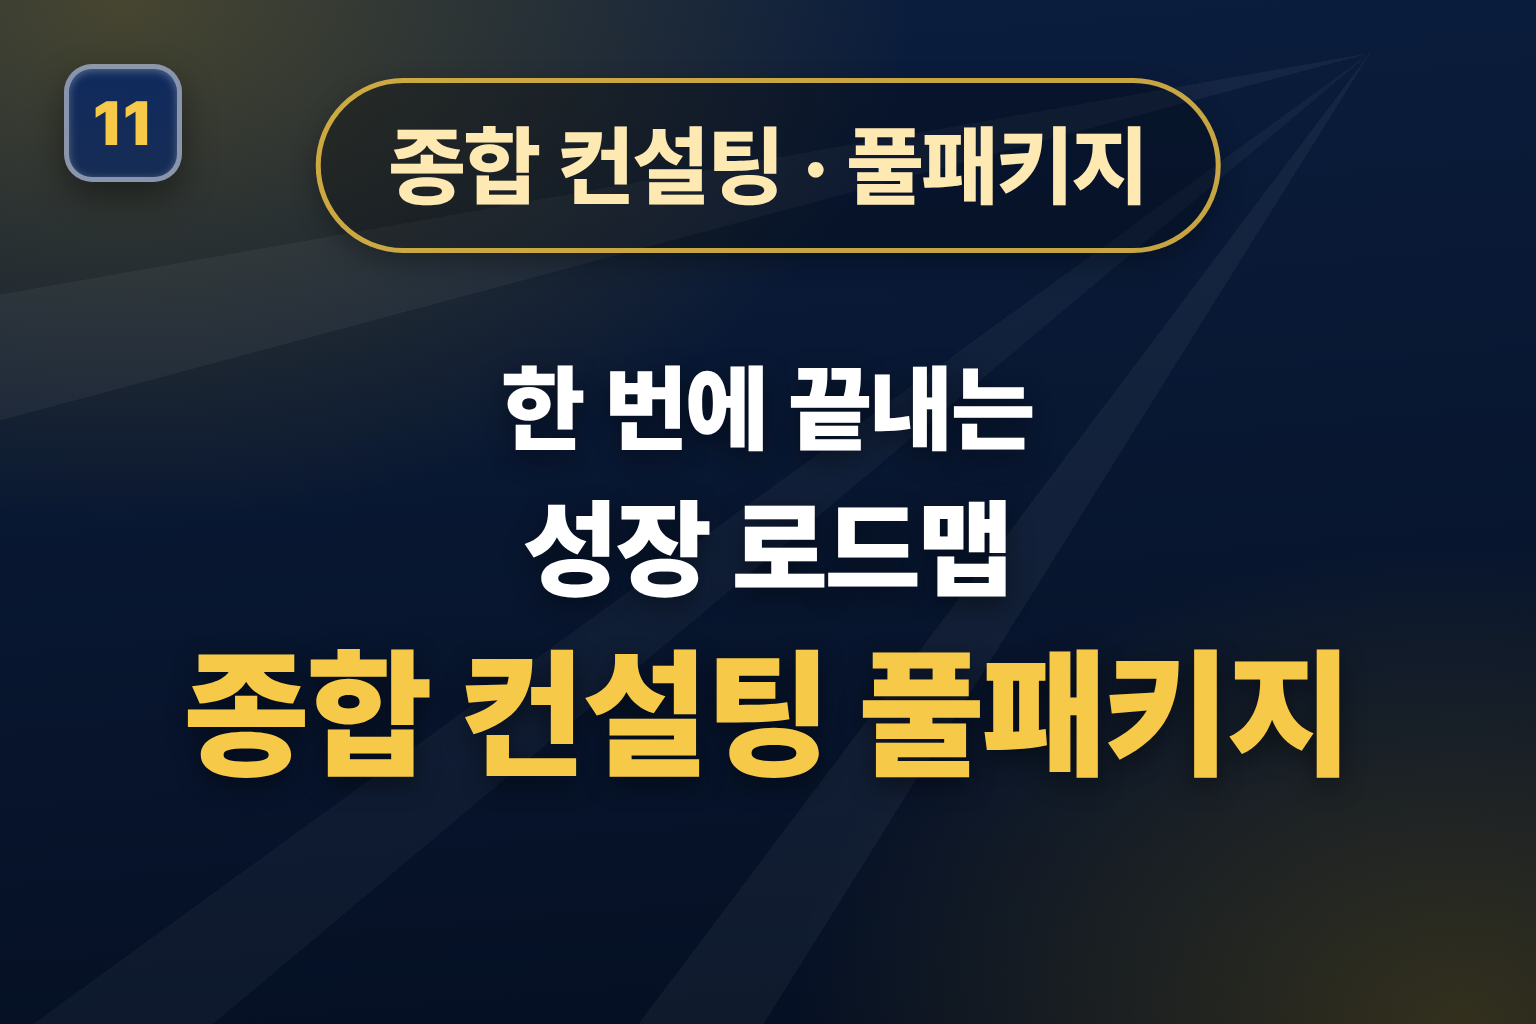
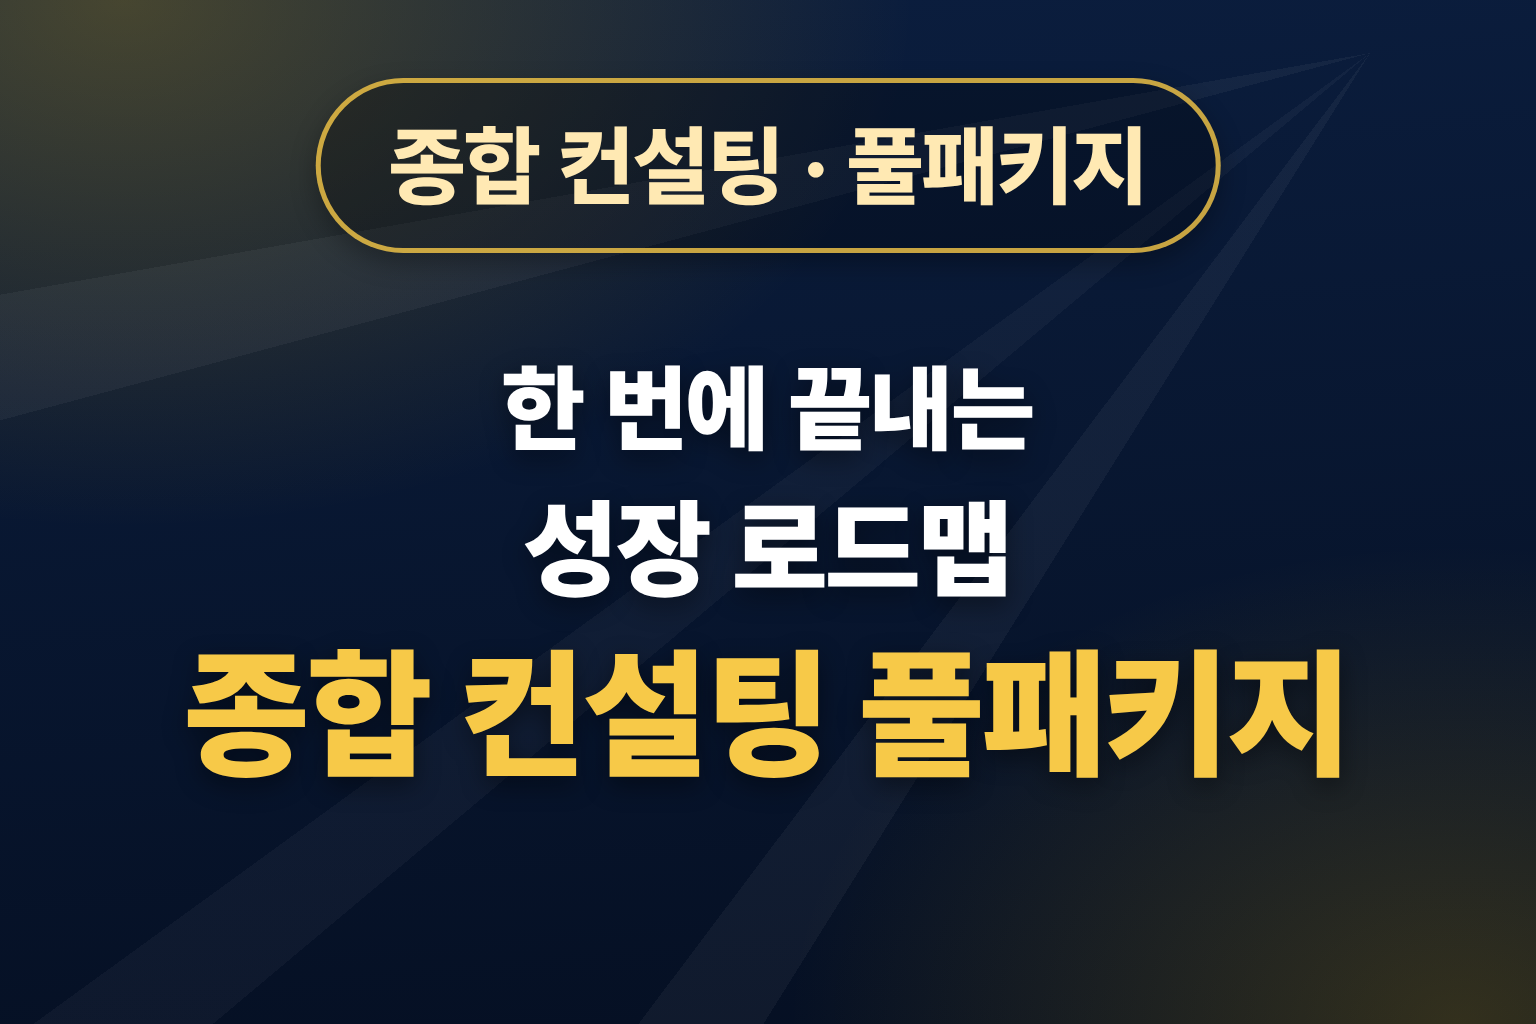
모바일 UI 정리 — 상품 번호 제거·TOP 배지·2열 그리드·히어로 압축·수상 정렬
- 상품 배너 11종에서 1~11 번호 배지 제거(재생성)
- TOP5 섹션 카드 좌상단에 TOP 1~5 순위 배지 오버레이(화면 렌더)
- 전체 상품·TOP5·찜/장바구니 모두 모바일 2열(2x2) 그리드 + 컴팩트 카드
  (좁은 폭에서도 상품명·가격·혜택이 잘리지 않게 기본 크기 축소, sm 이상 확대)
- 히어로 CTA 문구 밸런스 조정: '우리 회사에 필요한 서비스 직접 체크하기' 2줄 균형(text-balance)
- 히어로·신뢰 블록 여백/폰트 압축 → 대표 상품 TOP5가 더 빨리 보이도록
- 수상 표기 전폭 단일 열로 재배치(연도 칩 + 제목·부문 인라인) — 우측 쏠림·세로 길이 해소

Claude-Session: https://claude.ai/code/session_0127QvWRVvHFDHQbBmPVBCzc

Changed region(s): [[0.0312, 0.0625, 0.125, 0.1875]]

diff --git a/src/components/ProductCard.tsx b/src/components/ProductCard.tsx
@@ -1,5 +1,6 @@
 // 서비스몰형 상품 카드 — 카드 전체가 상세페이지 링크, 썸네일 우하단에 찜·장바구니 토글.
 // 결제/상담은 상세페이지 상단 CTA 에서 진행. (/business-services · /saved 공용)
+// 모바일 2열(2x2) 그리드 우선 — 좁은 폭에서도 글자가 잘리지 않게 기본 크기를 작게, sm 이상에서 확대.
 import { Link } from 'react-router-dom'
 import BusinessServiceVisual from './BusinessServiceVisual'
 import { categoryToneClass, packageBanner, type BusinessPackage } from '../data/businessPackages'
@@ -16,7 +17,7 @@ export function formatKoreanMoney(text: string): string {
     .replace(/(?<![\d,])(\d+)\s*천\s*원/g, (_m, cheon: string) => `${(parseInt(cheon, 10) * 1000).toLocaleString('ko-KR')}원`)
 }
 
-export default function ProductCard({ pkg }: { pkg: BusinessPackage }) {
+export default function ProductCard({ pkg, rank }: { pkg: BusinessPackage; rank?: number }) {
   const b = packageBanner[pkg.id]
   const flagship = pkg.flagship
   const consult = pkg.priceType === 'consult'
@@ -38,7 +39,7 @@ export default function ProductCard({ pkg }: { pkg: BusinessPackage }) {
   }
 
   const miniBtn =
-    'grid h-9 w-9 place-items-center rounded-full shadow-md backdrop-blur transition-all duration-150 active:scale-95 focus-visible:outline focus-visible:outline-2 focus-visible:outline-offset-2 focus-visible:outline-white'
+    'grid h-8 w-8 place-items-center rounded-full shadow-md backdrop-blur transition-all duration-150 active:scale-95 focus-visible:outline focus-visible:outline-2 focus-visible:outline-offset-2 focus-visible:outline-white sm:h-9 sm:w-9'
 
   return (
     <Link
@@ -54,8 +55,16 @@ export default function ProductCard({ pkg }: { pkg: BusinessPackage }) {
       <div className="relative aspect-[16/10] overflow-hidden bg-slate-100">
         <BusinessServiceVisual type={pkg.visualType} title={b.title} accent={b.accent} tag={pkg.category} imageSrc={pkg.imageSrc} alt={pkg.name} fit="cover" minimal />
 
-        {/* 찜·장바구니 — 썸네일 우하단 미니 버튼 */}
-        <div className="absolute bottom-2.5 right-2.5 flex flex-col items-center gap-1.5">
+        {/* TOP 순위 배지 — 썸네일 좌상단(대표 상품 TOP N 에서만) */}
+        {rank && (
+          <span className="absolute left-2 top-2 inline-flex items-center gap-0.5 rounded-lg bg-gradient-to-b from-amber-400 to-amber-500 px-2 py-1 font-black leading-none tracking-tight text-slate-900 shadow-md ring-1 ring-amber-300/50">
+            <span className="text-[0.6rem] font-black sm:text-[0.68rem]">TOP</span>
+            <span className="text-[0.95rem] sm:text-[1.1rem]">{rank}</span>
+          </span>
+        )}
+
+        {/* 찜·장바구니 — 썸네일 우하단 미니 버튼(세로 배치, 좋아요 위) */}
+        <div className="absolute bottom-2 right-2 flex flex-col items-center gap-1.5 sm:bottom-2.5 sm:right-2.5">
           <button
             type="button"
             onClick={onLike}
@@ -64,7 +73,7 @@ export default function ProductCard({ pkg }: { pkg: BusinessPackage }) {
             title={liked ? '좋아요 해제' : '좋아요'}
             className={`${miniBtn} ${liked ? 'bg-rose-500 text-white' : 'bg-white/90 text-slate-500 hover:bg-white hover:text-rose-500'}`}
           >
-            <svg viewBox="0 0 24 24" className="h-[18px] w-[18px]" fill={liked ? 'currentColor' : 'none'} stroke="currentColor" strokeWidth="2" strokeLinecap="round" strokeLinejoin="round" aria-hidden>
+            <svg viewBox="0 0 24 24" className="h-[16px] w-[16px] sm:h-[18px] sm:w-[18px]" fill={liked ? 'currentColor' : 'none'} stroke="currentColor" strokeWidth="2" strokeLinecap="round" strokeLinejoin="round" aria-hidden>
               <path d="M19 14c1.5-1.5 3-3.2 3-5.5A4.5 4.5 0 0 0 17.5 4c-1.7 0-3 .8-4 2.1a5.5 5.5 0 0 0-1-1.1A4.6 4.6 0 0 0 9.5 4 4.5 4.5 0 0 0 5 8.5c0 2.3 1.5 4 3 5.5l4 4 3.5-3.5z" transform="translate(0 .5)" />
             </svg>
           </button>
@@ -77,11 +86,11 @@ export default function ProductCard({ pkg }: { pkg: BusinessPackage }) {
             className={`${miniBtn} ${inCart ? 'bg-blue-600 text-white' : 'bg-white/90 text-slate-500 hover:bg-white hover:text-blue-600'}`}
           >
             {inCart ? (
-              <svg viewBox="0 0 24 24" className="h-[18px] w-[18px]" fill="none" stroke="currentColor" strokeWidth="2.4" strokeLinecap="round" strokeLinejoin="round" aria-hidden>
+              <svg viewBox="0 0 24 24" className="h-[16px] w-[16px] sm:h-[18px] sm:w-[18px]" fill="none" stroke="currentColor" strokeWidth="2.4" strokeLinecap="round" strokeLinejoin="round" aria-hidden>
                 <path d="M4.5 12.5l5 5 10-11" />
               </svg>
             ) : (
-              <svg viewBox="0 0 24 24" className="h-[18px] w-[18px]" fill="none" stroke="currentColor" strokeWidth="2" strokeLinecap="round" strokeLinejoin="round" aria-hidden>
+              <svg viewBox="0 0 24 24" className="h-[16px] w-[16px] sm:h-[18px] sm:w-[18px]" fill="none" stroke="currentColor" strokeWidth="2" strokeLinecap="round" strokeLinejoin="round" aria-hidden>
                 <circle cx="9" cy="20" r="1.4" />
                 <circle cx="17.5" cy="20" r="1.4" />
                 <path d="M2.5 3.5h2.5l2.6 12h10.7l2.2-8.5H6" />
@@ -92,44 +101,44 @@ export default function ProductCard({ pkg }: { pkg: BusinessPackage }) {
         </div>
       </div>
 
-      <div className="flex flex-1 flex-col p-4 sm:p-5">
+      <div className="flex flex-1 flex-col p-3 sm:p-5">
         {/* 카테고리 ↔ 대표상품/배지 */}
-        <div className="flex items-center justify-between gap-2">
-          <span className={`rounded-full px-2.5 py-1 text-[0.82rem] font-bold ${categoryToneClass[pkg.category] ?? 'bg-slate-100 text-slate-600'}`}>{pkg.category}</span>
+        <div className="flex items-center justify-between gap-1.5">
+          <span className={`rounded-full px-2 py-0.5 text-[0.72rem] font-bold sm:px-2.5 sm:py-1 sm:text-[0.82rem] ${categoryToneClass[pkg.category] ?? 'bg-slate-100 text-slate-600'}`}>{pkg.category}</span>
           {flagship ? (
-            <span className="shrink-0 rounded-full bg-amber-400 px-2.5 py-1 text-[0.82rem] font-black text-slate-900">★ 대표 상품</span>
+            <span className="shrink-0 rounded-full bg-amber-400 px-2 py-0.5 text-[0.72rem] font-black text-slate-900 sm:px-2.5 sm:py-1 sm:text-[0.82rem]">★ 대표</span>
           ) : (
-            pkg.badge && <span className="shrink-0 rounded-full bg-slate-100 px-2.5 py-1 text-[0.82rem] font-semibold text-slate-500">{pkg.badge}</span>
+            pkg.badge && <span className="hidden shrink-0 rounded-full bg-slate-100 px-2.5 py-1 text-[0.82rem] font-semibold text-slate-500 sm:inline">{pkg.badge}</span>
           )}
         </div>
 
         {/* 상품명 + 한줄 소개 */}
-        <h3 className="mt-3 line-clamp-1 text-[1.35rem] font-extrabold leading-snug tracking-tight text-slate-900">{pkg.name}</h3>
-        <p className="mt-1.5 line-clamp-2 text-[0.98rem] leading-relaxed text-slate-500">{pkg.short}</p>
+        <h3 className="mt-2 line-clamp-2 text-[1.02rem] font-extrabold leading-snug tracking-tight text-slate-900 sm:mt-3 sm:line-clamp-1 sm:text-[1.35rem]">{pkg.name}</h3>
+        <p className="mt-1 line-clamp-2 text-[0.82rem] leading-relaxed text-slate-500 sm:mt-1.5 sm:text-[0.98rem]">{pkg.short}</p>
 
         {/* 가격 존 — 결제/상담 구분 배지 + 가격 강조 */}
-        <div className="mt-3.5">
+        <div className="mt-2.5 sm:mt-3.5">
           {consult ? (
-            <span className="inline-flex items-center gap-1 rounded-full bg-amber-50 px-2.5 py-1 text-[0.82rem] font-bold text-amber-700 ring-1 ring-inset ring-amber-500/20">
+            <span className="inline-flex items-center gap-1 rounded-full bg-amber-50 px-2 py-0.5 text-[0.72rem] font-bold text-amber-700 ring-1 ring-inset ring-amber-500/20 sm:px-2.5 sm:py-1 sm:text-[0.82rem]">
               <span aria-hidden>💬</span> 상담 후 견적
             </span>
           ) : (
-            <span className="inline-flex items-center gap-1 rounded-full bg-emerald-50 px-2.5 py-1 text-[0.82rem] font-bold text-emerald-700 ring-1 ring-inset ring-emerald-600/15">
-              <span aria-hidden>⚡</span> 바로 결제 가능
+            <span className="inline-flex items-center gap-1 rounded-full bg-emerald-50 px-2 py-0.5 text-[0.72rem] font-bold text-emerald-700 ring-1 ring-inset ring-emerald-600/15 sm:px-2.5 sm:py-1 sm:text-[0.82rem]">
+              <span aria-hidden>⚡</span> 바로 결제
             </span>
           )}
-          <div className="mt-2 flex items-baseline gap-1.5">
-            <span className={`font-black tracking-tight ${consult ? 'text-[1.6rem] text-slate-700' : flagship ? 'text-[1.85rem] text-amber-600' : 'text-[1.85rem] text-slate-900'}`}>{priceText}</span>
+          <div className="mt-1.5 flex items-baseline gap-1.5 sm:mt-2">
+            <span className={`font-black tracking-tight ${consult ? 'text-[1.2rem] text-slate-700 sm:text-[1.6rem]' : flagship ? 'text-[1.35rem] text-amber-600 sm:text-[1.85rem]' : 'text-[1.35rem] text-slate-900 sm:text-[1.85rem]'}`}>{priceText}</span>
           </div>
-          {pkg.priceHighlight && <p className="mt-1.5 line-clamp-1 text-[0.9rem] font-bold text-rose-600">{formatKoreanMoney(pkg.priceHighlight)}</p>}
+          {pkg.priceHighlight && <p className="mt-1 line-clamp-1 text-[0.8rem] font-bold text-rose-600 sm:mt-1.5 sm:text-[0.9rem]">{formatKoreanMoney(pkg.priceHighlight)}</p>}
         </div>
 
-        {/* 대표 혜택 3가지 — SaaS 체크 리스트(스캔형) */}
-        <ul className="mt-4 space-y-2.5 border-t border-slate-100 pt-4">
-          {pkg.highlights.slice(0, 3).map((h) => (
-            <li key={h} className="flex items-center gap-2.5 text-[0.98rem] font-semibold text-slate-700">
-              <span className={`grid h-5 w-5 shrink-0 place-items-center rounded-full ${flagship ? 'bg-amber-100 text-amber-600' : 'bg-blue-50 text-blue-600'}`} aria-hidden>
-                <svg viewBox="0 0 12 12" className="h-3 w-3" fill="none" stroke="currentColor" strokeWidth="2.5" strokeLinecap="round" strokeLinejoin="round">
+        {/* 대표 혜택 — 스캔형 체크 리스트. 모바일 2개, sm 이상 3개 */}
+        <ul className="mt-3 space-y-2 border-t border-slate-100 pt-3 sm:mt-4 sm:space-y-2.5 sm:pt-4">
+          {pkg.highlights.slice(0, 3).map((h, i) => (
+            <li key={h} className={`flex items-center gap-2 text-[0.82rem] font-semibold text-slate-700 sm:gap-2.5 sm:text-[0.98rem] ${i === 2 ? 'hidden sm:flex' : ''}`}>
+              <span className={`grid h-4 w-4 shrink-0 place-items-center rounded-full sm:h-5 sm:w-5 ${flagship ? 'bg-amber-100 text-amber-600' : 'bg-blue-50 text-blue-600'}`} aria-hidden>
+                <svg viewBox="0 0 12 12" className="h-2.5 w-2.5 sm:h-3 sm:w-3" fill="none" stroke="currentColor" strokeWidth="2.5" strokeLinecap="round" strokeLinejoin="round">
                   <path d="M2.5 6.4l2.4 2.4L9 3.2" />
                 </svg>
               </span>

diff --git a/src/pages/BusinessServicesPage.tsx b/src/pages/BusinessServicesPage.tsx
@@ -177,23 +177,24 @@ export default function BusinessServicesPage() {
       <section className="relative overflow-hidden bg-slate-900">
         <div aria-hidden className="pointer-events-none absolute -left-20 -top-24 h-72 w-72 rounded-full bg-blue-600/20 blur-3xl" />
         <div aria-hidden className="pointer-events-none absolute -bottom-24 right-0 h-72 w-72 rounded-full bg-amber-500/10 blur-3xl" />
-        <div className="relative mx-auto max-w-6xl px-5 py-11 sm:px-6 sm:py-14">
+        <div className="relative mx-auto max-w-6xl px-5 py-8 sm:px-6 sm:py-14">
           <span className="inline-flex items-center gap-2 rounded-full border border-white/15 bg-white/5 px-3.5 py-1.5 text-[0.8rem] font-semibold text-slate-200 backdrop-blur">
             <span className="h-2 w-2 rounded-full bg-amber-400" />
             미래경영지원센터 · 경영지원 서비스몰
           </span>
-          <h1 className="mt-4 max-w-3xl text-[1.75rem] font-extrabold leading-[1.25] tracking-tight text-white sm:text-[2.6rem] sm:leading-[1.18]">
+          <h1 className="mt-3.5 max-w-3xl text-[1.75rem] font-extrabold leading-[1.25] tracking-tight text-white sm:text-[2.6rem] sm:leading-[1.18]">
             대표님에게 필요한 <span className="text-amber-300">경영지원 서비스</span>를 골라보세요
           </h1>
-          <p className="mt-4 max-w-2xl text-[1.1rem] leading-relaxed text-slate-300 sm:text-xl">
+          <p className="mt-3.5 max-w-2xl text-[1.02rem] leading-relaxed text-slate-300 sm:text-xl">
             정책자금·고용지원금·기업인증·홈페이지·AI 시스템까지, 기업 상황에 맞는 패키지를 상담 후 제안드립니다.
           </p>
-          <div className="mt-7 max-w-3xl">
+          <div className="mt-6 max-w-3xl">
             <Link
               to="/business-diagnosis"
-              className="flex items-center justify-center gap-1.5 rounded-xl bg-amber-400 px-7 py-4 text-lg font-black text-slate-900 shadow-lg shadow-amber-500/20 transition-transform hover:-translate-y-0.5 sm:inline-flex"
+              className="flex w-full items-center justify-center gap-2 rounded-xl bg-amber-400 px-6 py-4 text-center text-[1.12rem] font-black leading-snug text-slate-900 shadow-lg shadow-amber-500/20 transition-transform hover:-translate-y-0.5 sm:w-auto sm:text-lg"
             >
-              🩺 우리 회사에 필요한 서비스 직접 체크해보기
+              <span aria-hidden className="text-xl">🩺</span>
+              <span className="text-balance">우리 회사에 필요한 서비스 직접 체크하기</span>
             </Link>
             <p className="mt-2 text-[0.9rem] font-bold text-amber-200/90">✓ 비회원도 체크 가능</p>
 
@@ -235,17 +236,17 @@ export default function BusinessServicesPage() {
           </div>
 
           {/* 신뢰 지표 — 서비스 찾기 CTA 바로 아래, 상품보다 먼저 눈에 띄게 */}
-          <div id="trust" className="mt-7 max-w-4xl scroll-mt-24 rounded-2xl border border-white/10 bg-white/[0.05] p-5 backdrop-blur sm:p-6">
+          <div id="trust" className="mt-6 max-w-4xl scroll-mt-24 rounded-2xl border border-white/10 bg-white/[0.05] p-4 backdrop-blur sm:p-6">
             <p className="text-[0.9rem] font-bold uppercase tracking-widest text-amber-300">믿고 맡기는 이유</p>
-            <dl className="mt-4 grid grid-cols-2 gap-x-4 gap-y-5 sm:grid-cols-4">
+            <dl className="mt-3.5 grid grid-cols-2 gap-x-4 gap-y-4 sm:grid-cols-4">
               {trustStats.map((s) => (
                 <div key={s.label} className="border-l-2 border-amber-400/60 pl-3.5">
-                  <dd className="text-[1.85rem] font-black leading-none tracking-tight text-white sm:text-[2.1rem]">{s.value}</dd>
-                  <dt className="mt-2 text-[0.92rem] font-medium leading-snug text-slate-300">{s.label}</dt>
+                  <dd className="text-[1.7rem] font-black leading-none tracking-tight text-white sm:text-[2.1rem]">{s.value}</dd>
+                  <dt className="mt-1.5 text-[0.88rem] font-medium leading-snug text-slate-300 sm:text-[0.92rem]">{s.label}</dt>
                 </div>
               ))}
             </dl>
-            <div className="mt-5 flex items-start gap-3.5 border-t border-white/10 pt-5">
+            <div className="mt-4 flex items-start gap-3 border-t border-white/10 pt-4 sm:gap-3.5">
               <img
                 src="/assets/profile/ceo-avatar.webp"
                 alt="미래 AI 랩 대표 프로필 사진"
@@ -253,13 +254,13 @@ export default function BusinessServicesPage() {
                 decoding="async"
                 width={200}
                 height={200}
-                className="h-20 w-20 shrink-0 rounded-full object-cover shadow-lg shadow-black/30 ring-[3px] ring-amber-400/60 sm:h-24 sm:w-24"
+                className="h-16 w-16 shrink-0 rounded-full object-cover shadow-lg shadow-black/30 ring-[3px] ring-amber-400/60 sm:h-24 sm:w-24"
               />
               <div className="min-w-0">
-              <p className="text-[1.1rem] font-semibold leading-relaxed text-slate-100">
+              <p className="text-[0.98rem] font-semibold leading-relaxed text-slate-100 sm:text-[1.1rem]">
                 정책자금부터 정부지원사업, 법인컨설팅, AX 구축까지 기업의 성장 과정을 한 흐름으로 설계합니다.
               </p>
-              <div className="mt-2.5 flex flex-wrap items-center gap-x-2.5 gap-y-2 text-[0.95rem] font-medium text-slate-300">
+              <div className="mt-2 flex flex-wrap items-center gap-x-2.5 gap-y-1.5 text-[0.9rem] font-medium text-slate-300 sm:mt-2.5 sm:text-[0.95rem]">
                 <span className="font-bold text-white">미래 AI 랩 대표</span>
                 <span className="text-slate-600">·</span>
                 <span>미래경영지원센터</span>
@@ -279,15 +280,15 @@ export default function BusinessServicesPage() {
                   <span aria-hidden className="text-slate-300">↗</span>
                 </a>
               </div>
-              {/* 수상 — 모바일에서도 2열 병렬, 소형 */}
-              <div className="mt-3 grid grid-cols-2 gap-2">
+              {/* 수상 — 전폭 단일 열(연도 칩 + 제목·부문 인라인), 세로 길이 최소화 */}
+              <div className="mt-3 space-y-1.5">
                 {trustAwards.map((a) => (
-                  <div key={a.title} className="flex items-start gap-1.5 rounded-lg border border-white/10 bg-white/5 px-2.5 py-2">
-                    <span className="mt-0.5 shrink-0 rounded bg-amber-400 px-1.5 py-0.5 text-[0.68rem] font-black text-slate-900">{a.year}</span>
-                    <span className="min-w-0">
-                      <span className="block text-[0.78rem] font-bold leading-snug text-slate-100">{a.title}</span>
-                      <span className="text-[0.7rem] text-slate-400">{a.detail}</span>
-                    </span>
+                  <div key={a.title} className="flex items-start gap-2 rounded-lg border border-white/10 bg-white/5 px-2.5 py-1.5">
+                    <span className="mt-px shrink-0 rounded bg-amber-400 px-1.5 py-0.5 text-[0.7rem] font-black text-slate-900">{a.year}</span>
+                    <p className="min-w-0 text-[0.82rem] font-semibold leading-snug text-slate-100">
+                      {a.title}
+                      <span className="font-normal text-slate-400"> · {a.detail}</span>
+                    </p>
                   </div>
                 ))}
               </div>
@@ -299,12 +300,12 @@ export default function BusinessServicesPage() {
 
       {/* 대표 상품 TOP 5 */}
       <section id="top3" className="scroll-mt-16 border-t border-slate-200">
-        <div className="mx-auto max-w-6xl px-5 py-10 sm:px-6 sm:py-12">
+        <div className="mx-auto max-w-6xl px-5 py-8 sm:px-6 sm:py-12">
           <p className={eyebrow}>대표 상품 TOP 5</p>
           <h2 className={h2Class}>대표님들이 가장 많이 찾는 서비스</h2>
-          <div className="mt-6 grid gap-5 sm:grid-cols-2 lg:grid-cols-3">
-            {featured.map((pkg) => (
-              <ProductCard key={pkg.id} pkg={pkg} />
+          <div className="mt-5 grid grid-cols-2 gap-3 sm:mt-6 sm:gap-5 lg:grid-cols-3">
+            {featured.map((pkg, i) => (
+              <ProductCard key={pkg.id} pkg={pkg} rank={i + 1} />
             ))}
           </div>
         </div>
@@ -341,7 +342,7 @@ export default function BusinessServicesPage() {
             {groups.map((g) => (
               <div key={g.cat}>
                 <h3 className="text-xl font-extrabold tracking-tight text-slate-900 sm:text-2xl">{g.scenario}</h3>
-                <div className="mt-4 grid grid-cols-1 gap-5 sm:grid-cols-2 lg:grid-cols-3">
+                <div className="mt-4 grid grid-cols-2 gap-3 sm:gap-5 lg:grid-cols-3">
                   {g.items.map((pkg) => (
                     <ProductCard key={pkg.id} pkg={pkg} />
                   ))}

diff --git a/src/pages/SavedItemsPage.tsx b/src/pages/SavedItemsPage.tsx
@@ -79,7 +79,7 @@ export default function SavedItemsPage() {
           {cartItems.length === 0 ? (
             <div className="mt-4"><EmptyBox label="장바구니가 비어 있어요. 마음에 드는 서비스를 담아보세요." /></div>
           ) : (
-            <div className="mt-4 grid grid-cols-1 gap-5 sm:grid-cols-2 lg:grid-cols-3">
+            <div className="mt-4 grid grid-cols-2 gap-3 sm:gap-5 lg:grid-cols-3">
               {cartItems.map((pkg) => (
                 <ProductCard key={pkg.id} pkg={pkg} />
               ))}
@@ -100,7 +100,7 @@ export default function SavedItemsPage() {
           {likedItems.length === 0 ? (
             <div className="mt-4"><EmptyBox label="아직 좋아요한 상품이 없어요." /></div>
           ) : (
-            <div className="mt-4 grid grid-cols-1 gap-5 sm:grid-cols-2 lg:grid-cols-3">
+            <div className="mt-4 grid grid-cols-2 gap-3 sm:gap-5 lg:grid-cols-3">
               {likedItems.map((pkg) => (
                 <ProductCard key={pkg.id} pkg={pkg} />
               ))}
